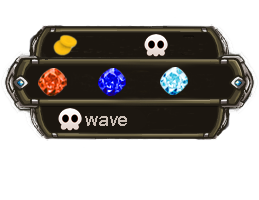
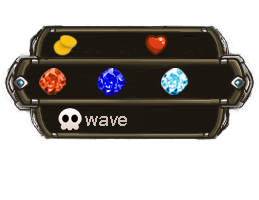
Effects stack now

diff --git a/Towers/RTS/RTS/Enemies/Enemy.cs b/Towers/RTS/RTS/Enemies/Enemy.cs
@@ -24,10 +24,16 @@ namespace RTS
             get { return attackDamage; }
         }
 
-        protected EnemyEffect effect = null;
-        public EnemyEffect Effect
+        protected EnemyEffect effectStn = null;
+        public EnemyEffect EffectStn
         {
-            get { return effect; }
+            get { return effectStn; }
+        }
+
+        protected EnemyEffect effectBurn = null;
+        public EnemyEffect EffectBurn
+        {
+            get { return effectBurn; }
         }
 
         Random rand = new Random();
@@ -46,6 +52,7 @@ namespace RTS
         private float curveTimer = 0;
         private float elapsedTime;
         private float effectTimer;
+        private float effectTimer2;
         private float shootElapsedTime;
         private float shootTimer = 2.7f;
         private float circle = MathHelper.Pi * 2;
@@ -216,21 +223,37 @@ namespace RTS
             ////Elapsed Time Calculations
             effectTimer += (float)gameTime.ElapsedGameTime.Milliseconds;
             elapsedTime = (float)gameTime.ElapsedGameTime.TotalSeconds;
-            effectTimer += (float)gameTime.ElapsedGameTime.Milliseconds;
+            //effectTimer2 += (float)gameTime.ElapsedGameTime.Milliseconds;
+            effectTimer2 += (float)gameTime.ElapsedGameTime.Milliseconds;
             shootElapsedTime += elapsedTime;
 
-            if (effect != null && effectTimer>100)
+            if (effectBurn != null && effectTimer>200)
             {
-                if (!effect.isValid(gameTime))
+                if (!effectBurn.isValid(gameTime))
                 {
-                    effect.undoEffect(this);
-                    effect = null;
+                    effectBurn.undoEffect(this);
+                    effectBurn = null;
                     effectTimer = 0f;
                 }
                 else if (effectTimer > 500)
                 {
-                    effect.applyEffects(this);
+                    effectBurn.applyEffects(this);
                     effectTimer = 0f;
+                }
+            }
+
+            if (effectStn != null && effectTimer2 > 200)
+            {
+                if (!effectStn.isValid(gameTime))
+                {
+                    effectStn.undoEffect(this);
+                    effectStn = null;
+                    effectTimer2 = 0f;
+                }
+                else if (effectTimer2 > 500)
+                {
+                    effectStn.applyEffects(this);
+                    effectTimer2 = 0f;
                 }
             }
 
@@ -453,13 +476,21 @@ namespace RTS
 
             hp -= damage.amount * dmgOffset;
 
-            if (effect == null && damage.effect != null)
+            if (effectStn == null && damage.effect is EnemyEffectStun)
             {
                 if (strongAgainst != damage.type)
                 {
-                    effect = damage.effect;
+                    effectStn = damage.effect;
                     applyOffset(damage);
                 }   
+            }
+            if (effectBurn == null && damage.effect is EnemyEffectBurn)
+            {
+                if (strongAgainst != damage.type)
+                {
+                    effectBurn = damage.effect;
+                    applyOffset(damage);
+                }
             }
 
             if (hp <= 0)
@@ -468,26 +499,29 @@ namespace RTS
 
         public void applyOffset(Damage damage)
         {
-            if (effect is EnemyEffectBurn)
+            //if (effect is EnemyEffectBurn)
+            if (effectBurn is EnemyEffectBurn)
             {
-                EnemyEffectBurn tmpEffect = (EnemyEffectBurn)effect;
+                //EnemyEffectBurn tmpEffect = (EnemyEffectBurn)effect;
+
                 if (weakAgainst == ElementType.Fire)
-                    tmpEffect.Offset = 1.5f;
+                    effectBurn.Offset = 1.5f;
                 else if (strongAgainst == ElementType.Fire)
-                    tmpEffect.Offset = 0;
-                else tmpEffect.Offset = 1.0f;
+                    effectBurn.Offset = 0;
+                else effectBurn.Offset = 1.0f;
             }
-            if (effect is EnemyEffectStun)
+            //if (effect is EnemyEffectStun)
+            if (effectStn is EnemyEffectStun)
             {
-                EnemyEffectStun tmpEffect = (EnemyEffectStun)effect;
+                //EnemyEffectStun tmpEffect = (EnemyEffectStun)effect;
                 if (weakAgainst == ElementType.Lightning)
                     //tmpEffect.Duration = tmpEffect.Duration + (int)((float)tmpEffect.Duration * 0.5f * damage.level);
-                    tmpEffect.Offset = 1.5f * damage.level;
+                    effectStn.Offset = 1.5f * damage.level;
                 else if (strongAgainst == ElementType.Lightning)
                     //tmpEffect.Duration = 0;
-                    tmpEffect.Offset = 0f;
+                    effectStn.Offset = 0f;
                 else
-                    tmpEffect.Offset = 1.0f * damage.level;
+                    effectStn.Offset = 1.0f * damage.level;
                     //tmpEffect.Duration = tmpEffect.Duration - (int)((float)tmpEffect.Duration * 0.5f);
             }
         }
@@ -507,7 +541,7 @@ namespace RTS
 
         public void Attack(List<Tower> towers, GameTime gameTime)
         {
-            if (!(effect is EnemyEffectStun))
+            if (!(effectStn is EnemyEffectStun))
             {
                 foreach (Tower i in towers)
                 {

diff --git a/Towers/RTS/RTS/Sprite.cs b/Towers/RTS/RTS/Sprite.cs
@@ -27,6 +27,13 @@ namespace RTS
             set { position = value; }
         }
 
+        protected Vector2 lowerLeft;
+        public Vector2 LowerLeft
+        {
+            get { return lowerLeft; }
+            //set { lowerLeft = value; }
+        }
+
         public Rectangle FeetSize
         {
             get { return new Rectangle((int)position.X, (int)position.Y, Size.Width, 10); }
@@ -54,7 +61,7 @@ namespace RTS
 
         public static void LoadContent(ContentManager Content)
         {
-            hpBarFrame = Content.Load<Texture2D>("hpFrame");
+            hpBarFrame = Content.Load<Texture2D>("hpBorder");
             hpBarInside = Content.Load<Texture2D>("hpInsid");
         }
 
@@ -121,8 +128,8 @@ namespace RTS
                 pos.Y -= 30;
                 Rectangle newRect = new Rectangle((int)pos.X, (int)pos.Y, (int)((((Enemy)this).HP / ((Enemy)this).MaxHP) * hpBarInside.Width), (int)hpBarInside.Height);
             
-                spriteBatch.Draw(hpBarInside, newRect, Color.White);
                 spriteBatch.Draw(hpBarFrame, pos, Color.White);
+                spriteBatch.Draw(hpBarInside, newRect, Color.White);
             }
         }
 
@@ -147,7 +154,7 @@ namespace RTS
             var length = (from i in allObjects
                           orderby i.Position.Y
                           select i) as List<Sprite>;
-            var lambda = allObjects.OrderBy(i => i.Position.Y).ToList();
+            var lambda = allObjects.OrderBy(i => (i.Position.Y)).ToList();
             allObjects = lambda;
         }
 

diff --git a/Towers/RTS/RTS/Player.cs b/Towers/RTS/RTS/Player.cs
@@ -186,6 +186,10 @@ namespace RTS
 
             origin.X = Size.Width / 2;
             origin.Y = Size.Height / 2;
+
+            lowerLeft.X = position.X;
+            lowerLeft.Y = position.Y + Size.Height;
+
         }
 
         public override void Draw(SpriteBatch spriteBatch)
@@ -1133,7 +1137,7 @@ namespace RTS
             {
                 //Rectangle treeRect = new Rectangle((int)t.Origin.X, (int)t.Origin.Y, t.Texture.Width / 3, t.Texture.Height / 3);
                 Rectangle lampRect = new Rectangle((int)l.Origin.X+15, (int)l.Origin.Y+5, 1, 1);
-                if (lampRect.Intersects(player))
+                if (lampRect.Intersects(new Rectangle((int)tmpPos.X - 5, (int)tmpPos.Y, (int)(animation.currentSpriteSheet().size.Width*0.75), (int)(animation.currentSpriteSheet().size.Height * 0.75))))
                 {
                     collision = true;
                     break;

diff --git a/Towers/RTS/RTS/Map.cs b/Towers/RTS/RTS/Map.cs
@@ -131,7 +131,7 @@ namespace RTS
         public Rectangle endRectangle()
         {
             Vector2 tmp = MapToWorld(endTile,false);
-            Rectangle rct = new Rectangle((int)tmp.X - endList[currentMap].Width/4, (int)tmp.Y, endList[currentMap].Width, endList[currentMap].Height / 6);
+            Rectangle rct = new Rectangle((int)tmp.X - endList[currentMap].Width/5, (int)tmp.Y, (int)(endList[currentMap].Width*0.75), endList[currentMap].Height / 6);
             return rct;
         }
 

diff --git a/Towers/RTS/RTS/Game1.cs b/Towers/RTS/RTS/Game1.cs
@@ -579,7 +579,7 @@ namespace RTS
                         {
                             if (Vector2.Distance(enemies[i].Position, tower.Position) <= tower.getRange())
                             {
-                                if (enemies[i].Effect is EnemyEffectStun){}
+                                if (enemies[i].EffectStn is EnemyEffectStun) { }
                                 else
                                 {
                                     enemies[i].MoveSpeed = .2f;

diff --git a/Towers/RTS/RTS/FlameTower.cs b/Towers/RTS/RTS/FlameTower.cs
@@ -24,7 +24,7 @@ namespace RTS
             flameTexture = game.Content.Load<Texture2D>("fireParticle");
             towerName = "Flame Tower";
             this.ilevel = level;
-            damage = new Damage(0.5f, this.ilevel, ElementType.Fire, null);
+            damage = new Damage(0.0f, this.ilevel, ElementType.Fire, null);
             damage.type = ElementType.Fire;
             damage.effect = new EnemyEffectBurn(game, 30, 0.5f);
 
